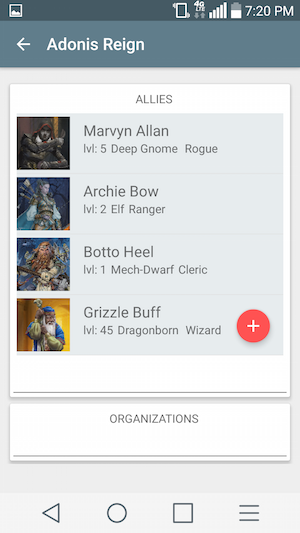
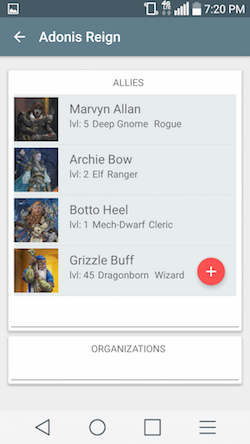
expand readme.  shrink screenshot sizes.

diff --git a/README.md b/README.md
@@ -1,18 +1,35 @@
 # CharacterSheet
+## Requirements
+* An android device running an SDK version of 21 or higher.
+
+#### Optional Requirements
+* NFC enabled on the android device for 'tap to share' character transfer.
+
 ## Images
 
 ![Main List](screenshots/main_list_small.png)
 ![Profile](screenshots/profile_page_small.png)
 ![Ability Scores](screenshots/ability_scores_small.png)
+![Combat Workspace](screenshots/combat_page_small.png)
+![Spells](screenshots/spell_list_small.png)
 ![Allies](screenshots/allies_small.png)
+
+## Installation
+APK not currently available for download.  Installation will need to be achieved by cloning the repository.
 
 ## Usage
 ### Deleting a Character
 1. From the main character menu long click the character you wish to delete.
 2. Select delete from the action menu that appears.
+
 ### Exporting Characters
 #### Tap to Share
 1. Enable NFC on your device and the receiving device.
 2. From the main character menu long click the character you wish to share.
 3. Select share from the action menu that appears.
 4. Hold NFC enabled devices together to share character.
+
+### Deleting an Ally
+1. Navigate to a character's ally page
+2. Long click on the ally you wish to delete
+3. Select delete from the action menu.
